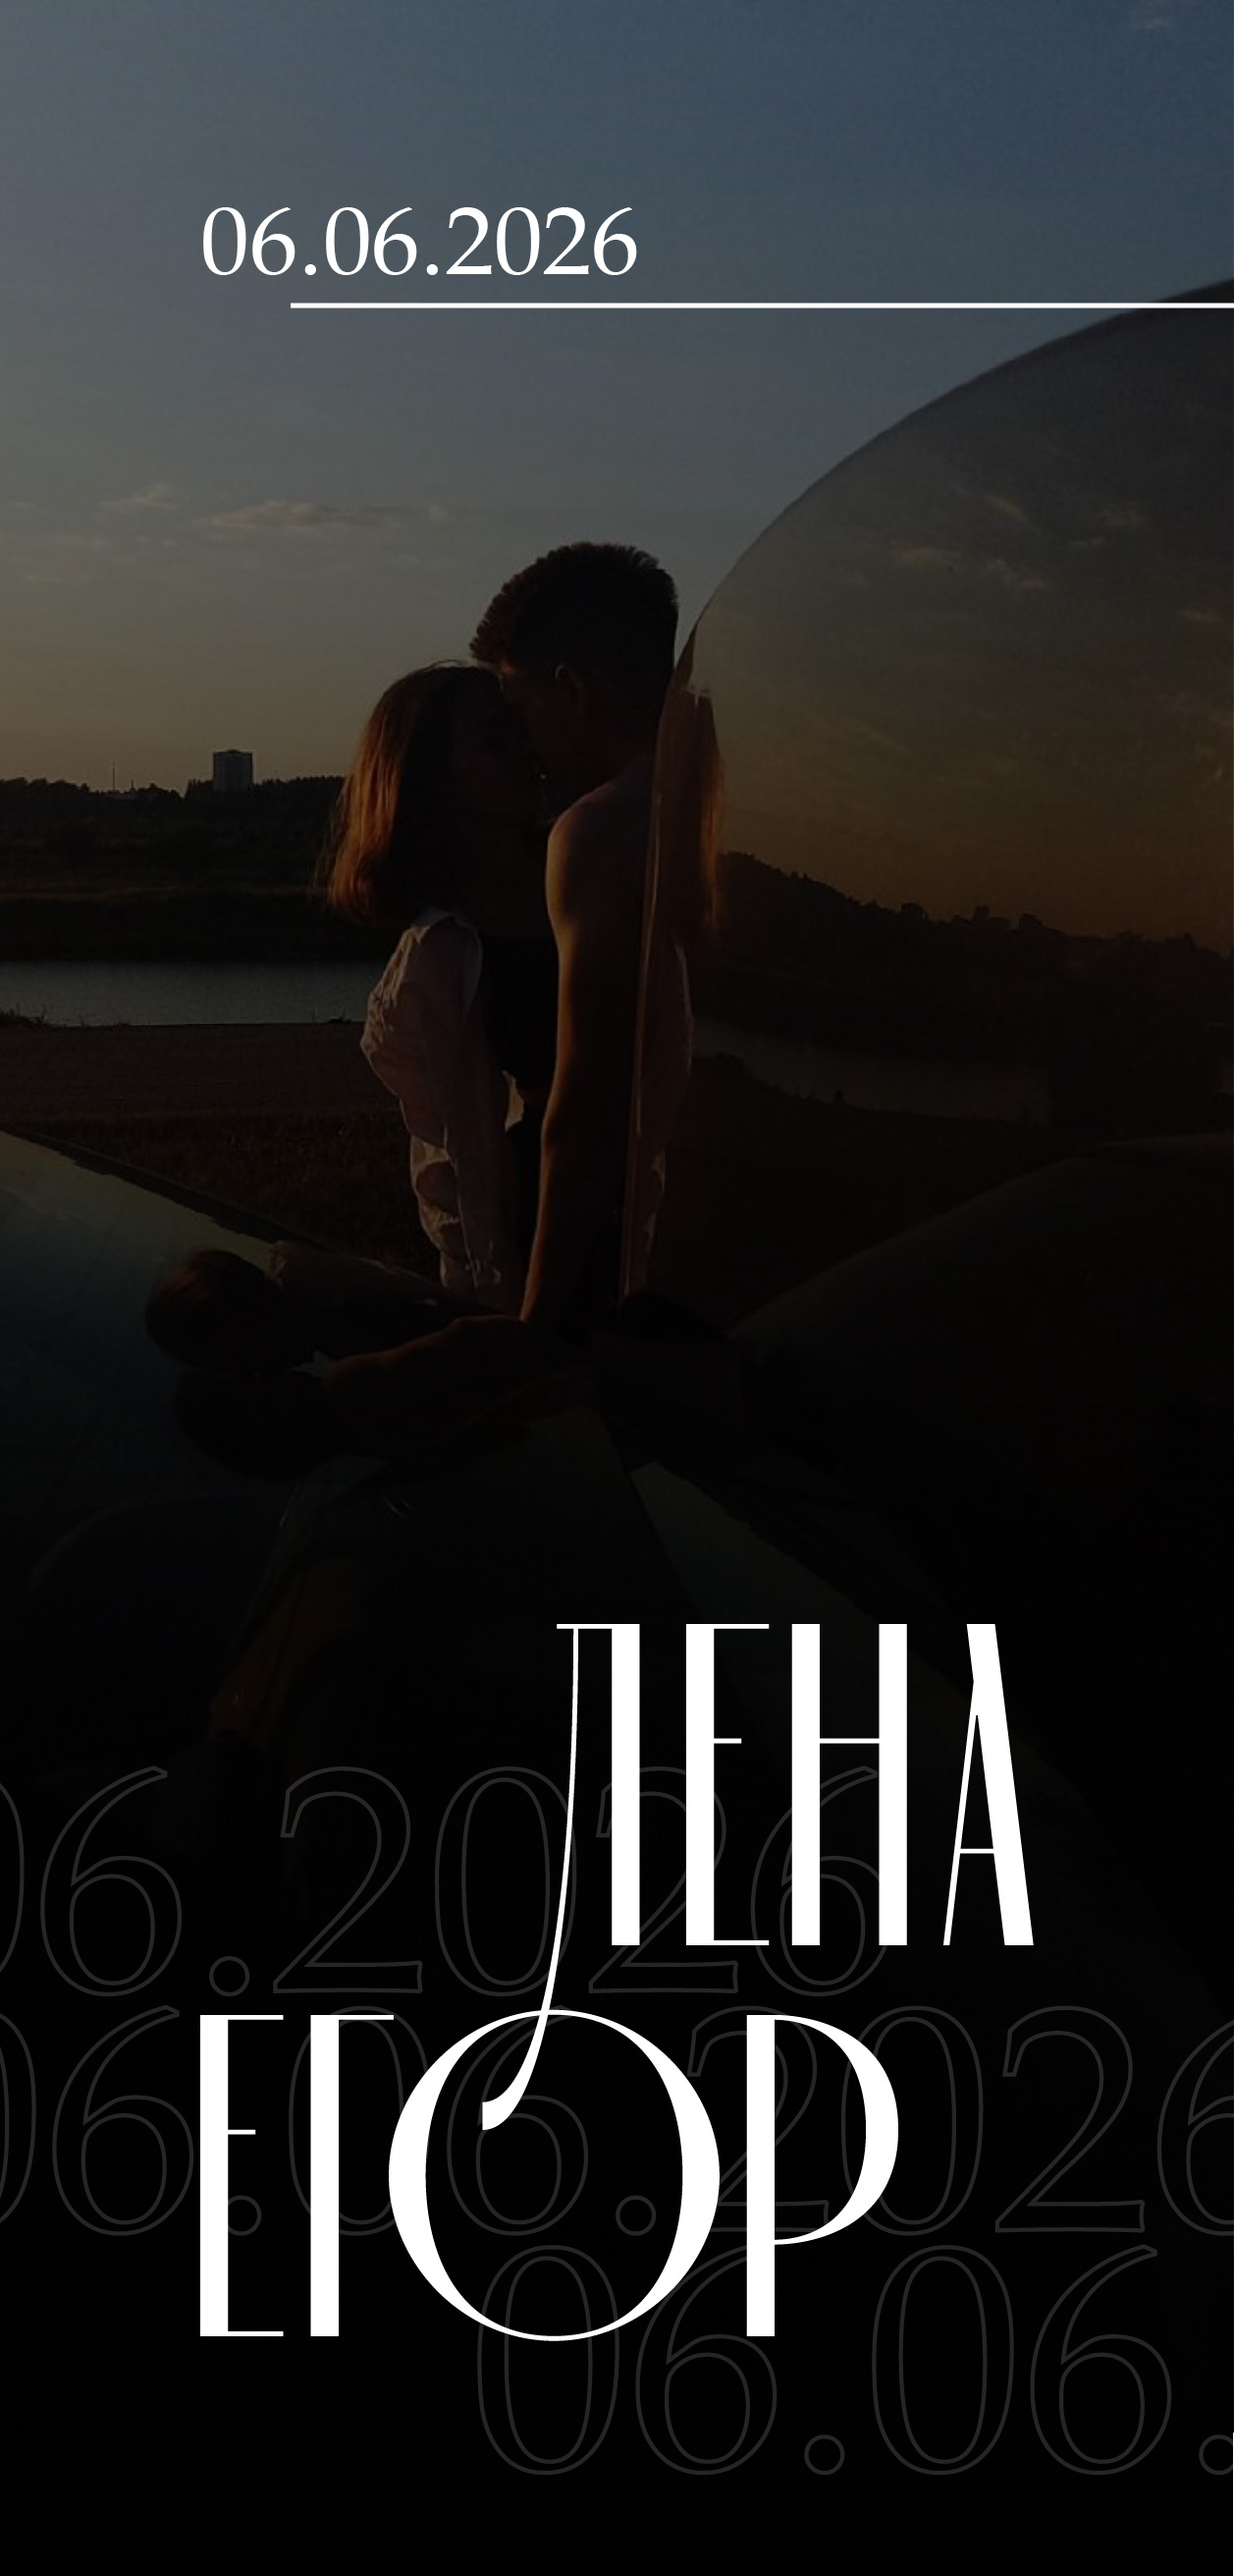
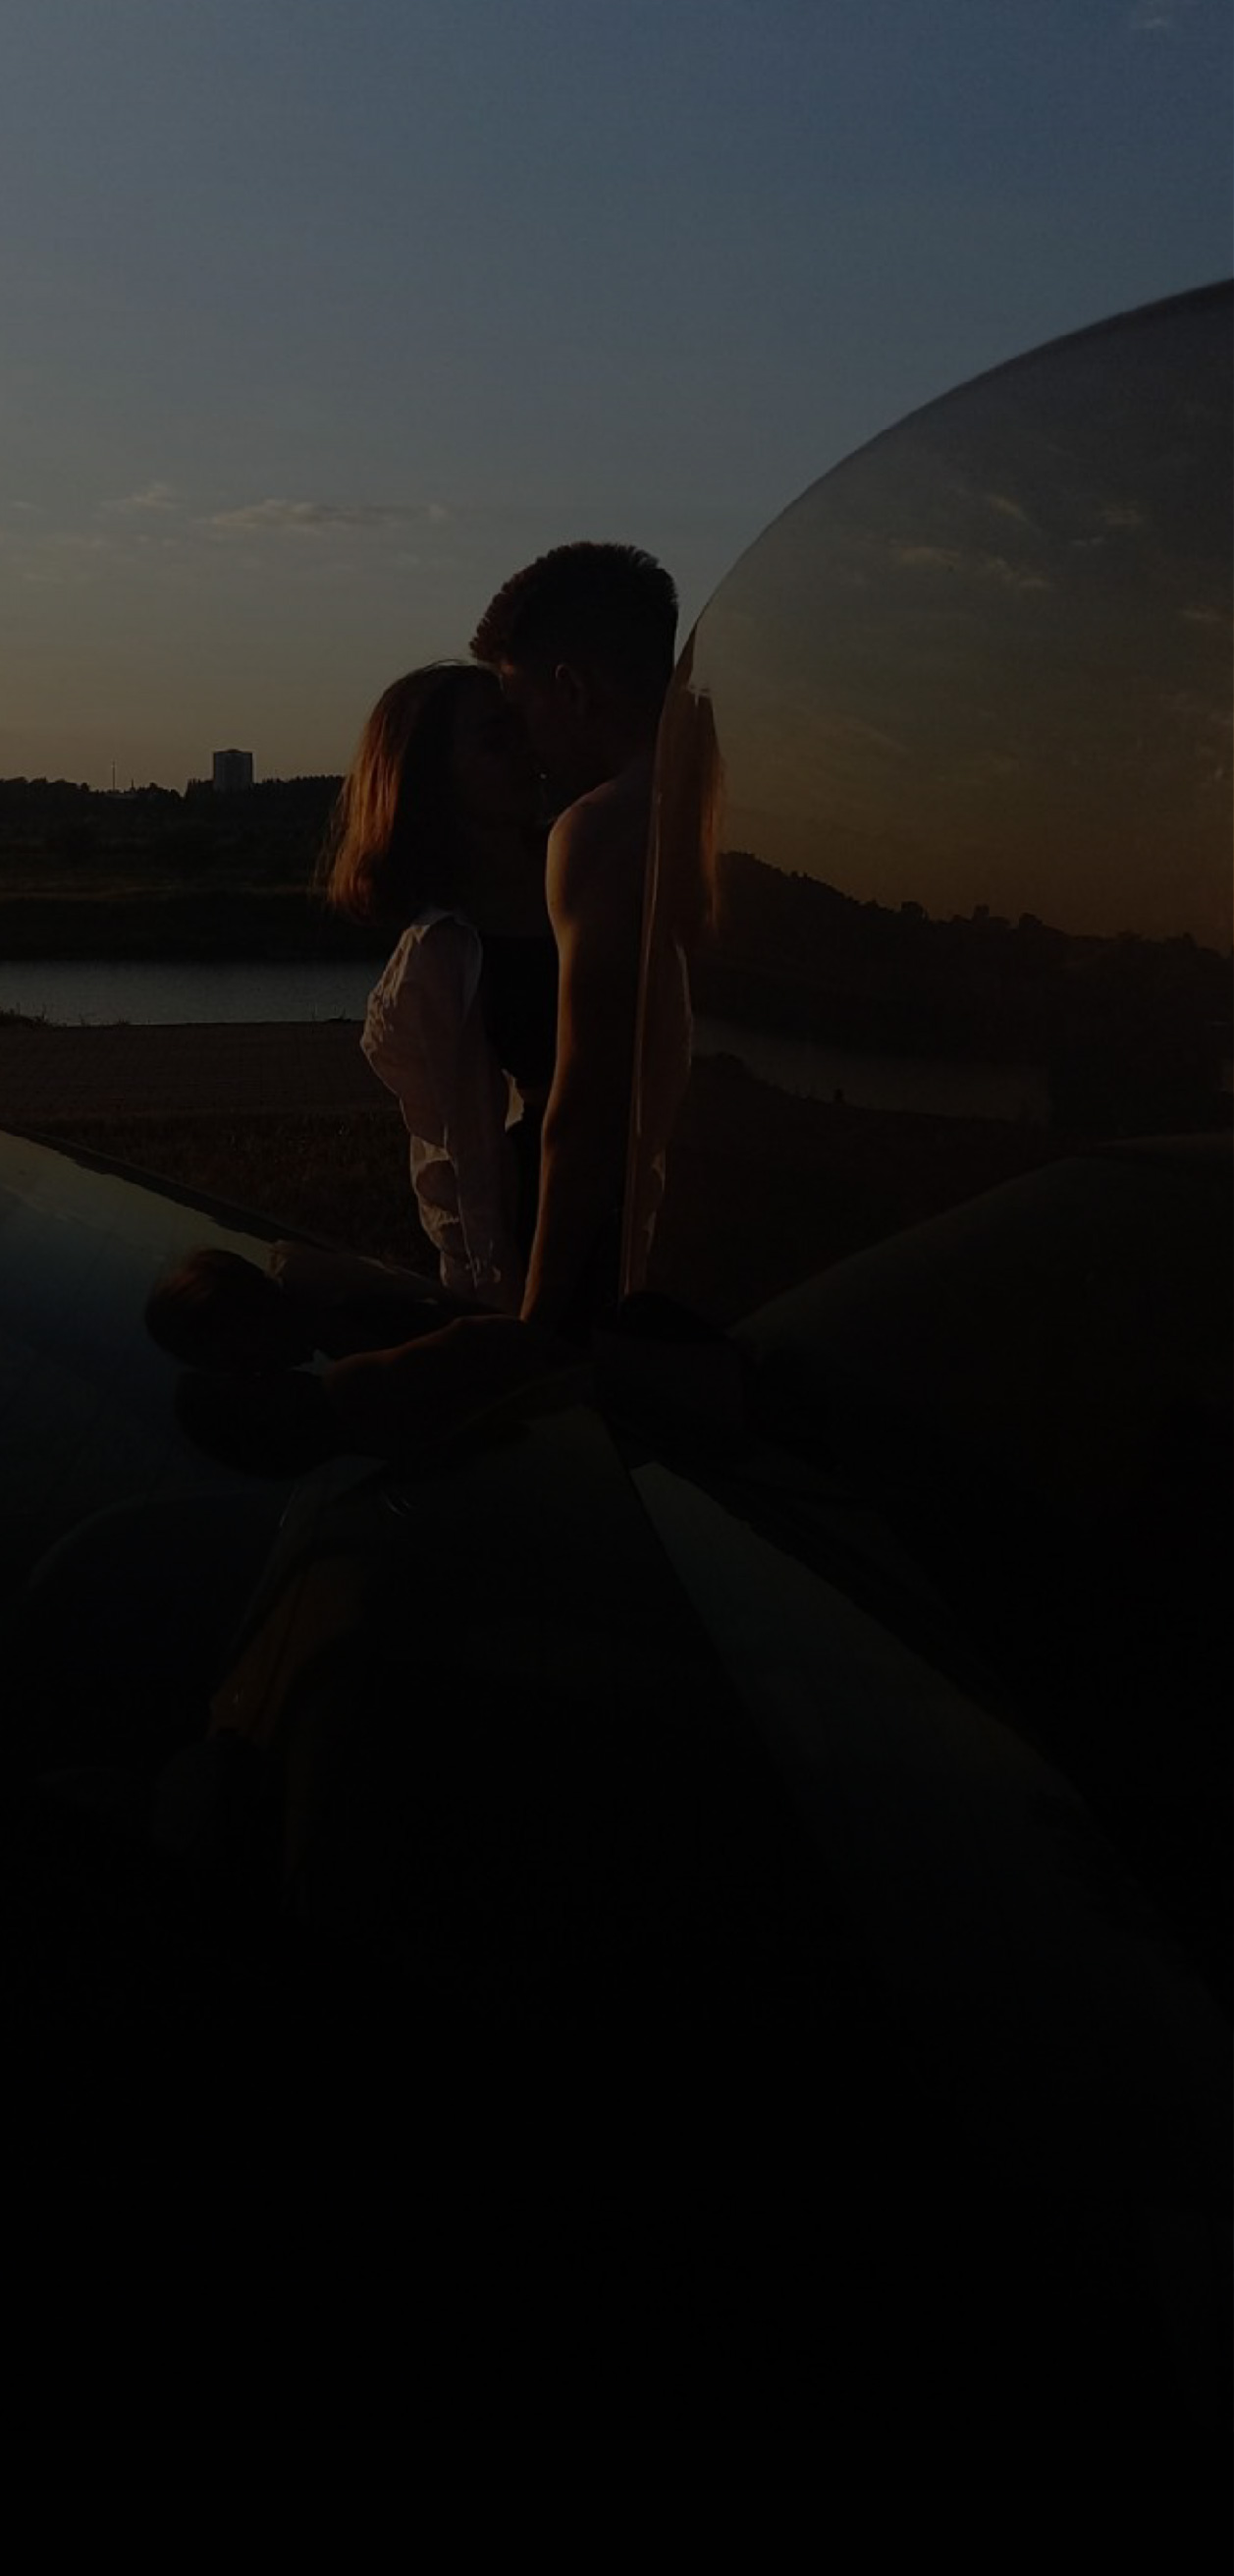
Add files via upload

diff --git a/js/main.js b/js/main.js
@@ -10,7 +10,7 @@ class ScrollManager {
         this.scrollDelay = 500; // Задержка между прокрутками в мс
         this.lastScrollTime = 0;
         this.options = {
-			verticalScroll: true, // или значение по умолчанию
+			verticalScroll: false, // или значение по умолчанию
 			animationDuration: 500
 		};
 		this.isAnimating = false;
@@ -211,50 +211,51 @@ class ScrollManager {
             }
         });
         
+
 		// Swipe для мобильных устройств
-			let touchStartY = 0;
-			let touchEndY = 0;
-			let touchStartTime = 0;
-			let isTouchActive = false;
+		let touchStartY = 0;
+		let touchEndY = 0;
+		let touchStartTime = 0;
+		let isTouchActive = false;
 
-			this.container.addEventListener('touchstart', (e) => {
-			  touchStartY = e.touches[0].clientY;
-			  touchStartTime = Date.now();
-			  isTouchActive = true;    
-			  
-			  // Блокируем скролл по умолчанию если включен vertical scroll
-			  if (this.options.verticalScroll) {
-				e.preventDefault();
-			  }
-			}, { passive: false });
+		this.container.addEventListener('touchstart', (e) => {
+		  touchStartY = e.touches[0].clientY;
+		  touchStartTime = Date.now();
+		  isTouchActive = true;    
+		  
+		  // Блокируем скролл по умолчанию если включен vertical scroll
+		  if (this.options.verticalScroll) {
+			e.preventDefault();
+		  }
+		}, { passive: false });
 
-			this.container.addEventListener('touchmove', (e) => {
-			  if (!isTouchActive) return;  
-			  
-			  // Блокируем вертикальный скролл при горизонтальном свайпе
-			  const touchY = e.touches[0].clientY;
-			  const diffY = Math.abs(touchY - touchStartY);
-			  
-			  // Если свайп в основном вертикальный - блокируем, чтобы не было конфликта
-			  if (diffY > 10 && this.options.verticalScroll) {
-				e.preventDefault();
-			  }
-			}, { passive: false });
+		this.container.addEventListener('touchmove', (e) => {
+		  if (!isTouchActive) return;  
+		  
+		  // Блокируем вертикальный скролл при горизонтальном свайпе
+		  const touchY = e.touches[0].clientY;
+		  const diffY = Math.abs(touchY - touchStartY);
+		  
+		  // Если свайп в основном вертикальный - блокируем, чтобы не было конфликта
+		  if (diffY > 10 && this.options.verticalScroll) {
+			e.preventDefault();
+		  }
+		}, { passive: false });
 
-			this.container.addEventListener('touchend', (e) => {
-			  if (!isTouchActive) return;
-			  
-			  touchEndY = e.changedTouches[0].clientY;
-			  const touchEndTime = Date.now();
-			  
-			  this.handleSwipe(touchStartY, touchEndY, touchEndTime - touchStartTime);
-			  isTouchActive = false;
-			}, { passive: true });
+		this.container.addEventListener('touchend', (e) => {
+		  if (!isTouchActive) return;
+		  
+		  touchEndY = e.changedTouches[0].clientY;
+		  const touchEndTime = Date.now();
+		  
+		  this.handleSwipe(touchStartY, touchEndY, touchEndTime - touchStartTime);
+		  isTouchActive = false;
+		}, { passive: true });
 
-			// Также отслеживаем отмену касания
-			this.container.addEventListener('touchcancel', () => {
-			  isTouchActive = false;
-			});
+		// Также отслеживаем отмену касания
+		this.container.addEventListener('touchcancel', () => {
+		  isTouchActive = false;
+		});
 	}
 			
 	// Обработка свайпов
@@ -320,6 +321,25 @@ function isiPhone() {
     return /iPhone|iPod/.test(userAgent) && !window.MSStream;
 }
 
+function isDesktop() {
+    // Список типичных мобильных и планшетных устройств
+    const mobileUserAgents = [
+        /Android/i,
+        /webOS/i,
+        /iPhone/i,
+        /iPad/i,
+        /iPod/i,
+        /BlackBerry/i,
+        /Windows Phone/i,
+        /Mobile/i
+    ];
+    
+    const userAgent = navigator.userAgent;
+    
+    // Если находим мобильный user-agent, значит это не ПК
+    return !mobileUserAgents.some(agent => agent.test(userAgent));
+}
+
 // Инициализация при загрузке страницы
 document.addEventListener('DOMContentLoaded', () => {
 	
@@ -328,18 +348,13 @@ document.addEventListener('DOMContentLoaded', () => {
 		
     scrollManager = new ScrollManager();
 	scrollManager.refreshModules();
-	
-	if (isiPhone()) {
-		console.log("Устройство: iPhone");
-		scrollManager.options.verticalScroll = true;
-	} 
-      
+	     
 });
 
 
 //Когда страница загрузилась листаем в начало сайта и скрываем индикатор загрузки
 window.addEventListener('load', () => {
-	scrollManager.scrollToModule(5);
+	scrollManager.scrollToModule(0);
 	hidePreloader();
 });
 	

diff --git a/css/style.css b/css/style.css
@@ -41,7 +41,7 @@ body {
 .module {
 	background-color: #000000;
     height: 100vh; height: 100dvh;
-	min-height: -webkit-fill-available; /* для Safari */  
+	/*min-height: -webkit-fill-available; /* для Safari */*/  
     scroll-snap-align: start;
     position: relative;
     display: flex;
@@ -212,12 +212,28 @@ body {
 /* Мобильная версия */
 @media (max-width: 768px) {	
 
+	.module-1-2,
+	.module-1-3 {
+		position: absolute; /* Чтобы можно было позиционировать */
+		width: 100%; /* Задайте нужную ширину */
+		height: 100%; /* Задайте нужную высоту */
+		background-repeat: no-repeat;
+		background-position: center;
+		background-size: contain;
+		}
 	.module-1 { 
 		background-image: url('../images/mobile/1.jpg');
 		}
+	.module-1-2 { 
+		background-image: url('../images/mobile/1_2.svg');
+		background-size: 100% 100%;
+		}
+	.module-1-3 { 
+		background-image: url('../images/mobile/1_3.svg');
+		background-size: 100% 100%;
+		}
 	.module-2 {
 		background-image: url('../images/mobile/2.jpg');
-		margin-right: -1px;
 		}
 	.module-3 {
 		background-image: url('../images/mobile/3.jpg'); 

diff --git a/index.html b/index.html
@@ -68,8 +68,9 @@
     <div id="main-container" class="modules-container">
         <!-- Модуль 1 -->
         <section class="module module-1"  id="module-1">
-            <div class="module-content">
-            </div>
+			<div class="module-1-2"></div>
+			<div class="module-1-3"></div>
+            <div class="module-content"></div>
         </section>
 
         <!-- Модуль 2 -->
